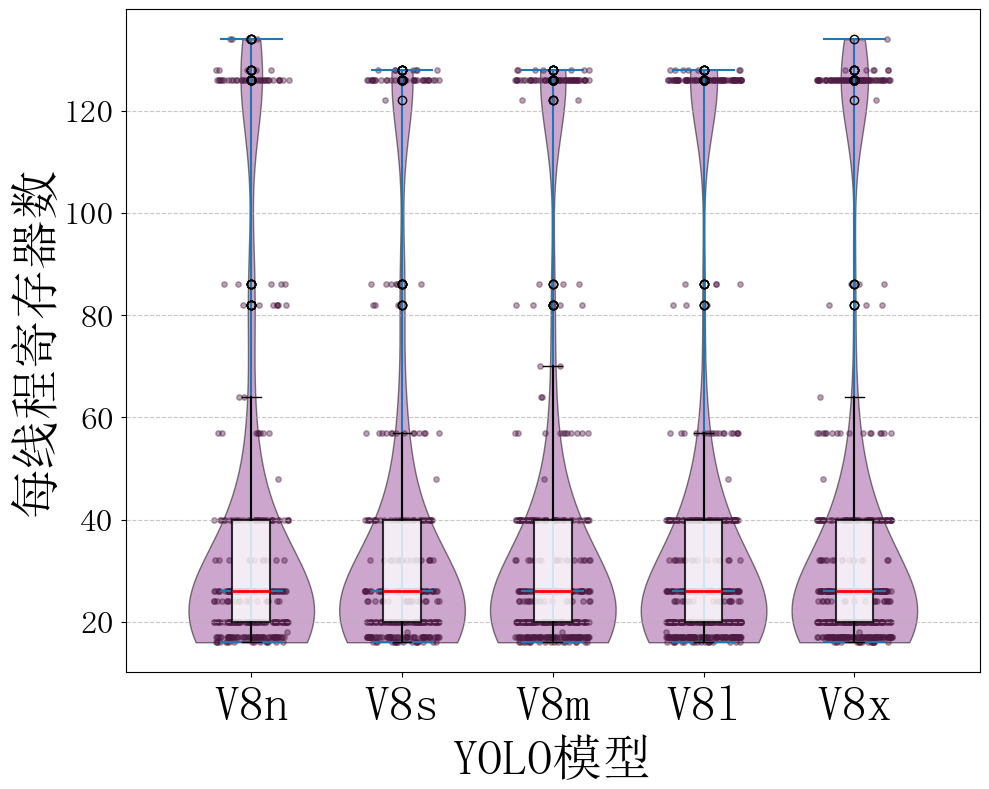
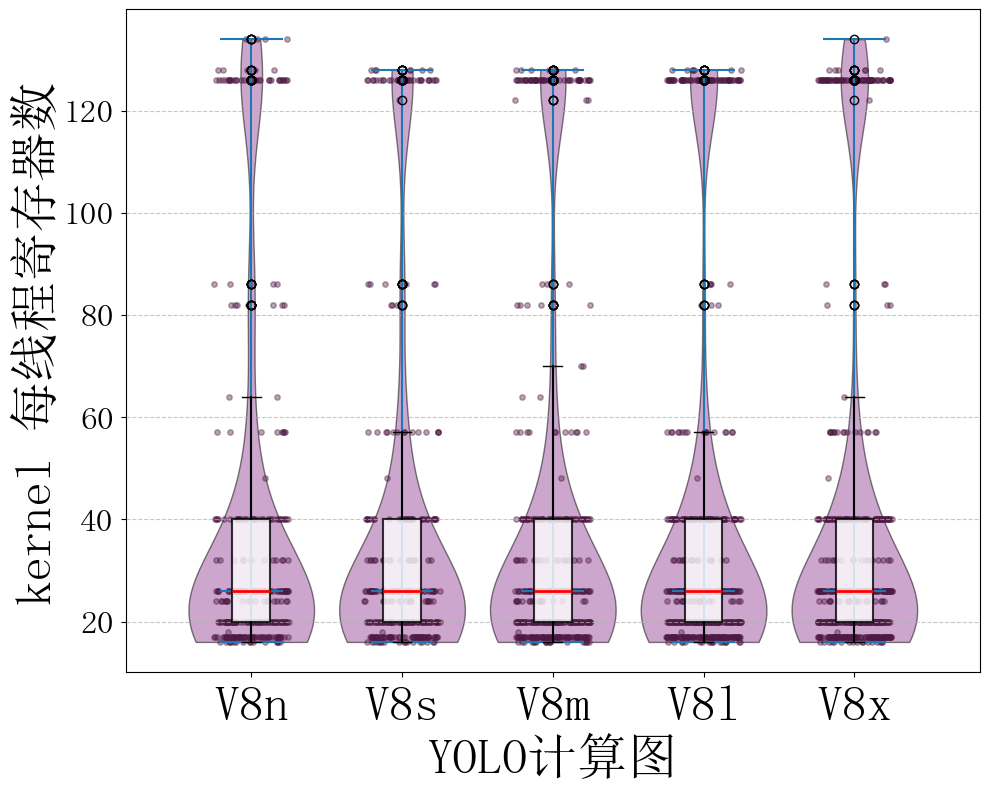
refactor: change 'model' to 'computation graph' in pictures

diff --git a/plotter/yolov8_single_data_kernels_accuracy_compare.py b/plotter/yolov8_single_data_kernels_accuracy_compare.py
@@ -28,7 +28,7 @@ data = {
 #   精确
 data = {'规则库数据来源模型': ['V8n', 'V8s', 'V8m', 'V8l', 'V8x'], 'V8n': ['239/239', '146/239', '94/239', '119/239', '54/239'], 'V8s': ['115/239', '239/239', '69/239', '146/239', '37/239'], 'V8m': ['50/305', '51/305', '305/305', '51/305', '37/305'], 'V8l': ['81/371', '247/371', '51/371', '371/371', '37/371'], 'V8x': ['104/371', '37/371', '37/371', '37/371', '371/371']}
 #   序列
-data = {'规则库数据来源模型': ['V8n', 'V8s', 'V8m', 'V8l', 'V8x'], 'V8n': ['239/239', '224/239', '216/239', '222/239', '217/239'], 'V8s': ['205/239', '239/239', '227/239', '221/239', '220/239'], 'V8m': ['250/305', '288/305', '305/305', '290/305', '283/305'], 'V8l': ['306/371', '327/371', '357/371', '371/371', '360/371'], 'V8x': ['307/371', '324/371', '342/371', '359/371', '371/371']}
+# data = {'规则库数据来源模型': ['V8n', 'V8s', 'V8m', 'V8l', 'V8x'], 'V8n': ['239/239', '224/239', '216/239', '222/239', '217/239'], 'V8s': ['205/239', '239/239', '227/239', '221/239', '220/239'], 'V8m': ['250/305', '288/305', '305/305', '290/305', '283/305'], 'V8l': ['306/371', '327/371', '357/371', '371/371', '360/371'], 'V8x': ['307/371', '324/371', '342/371', '359/371', '371/371']}
 
 # 创建 DataFrame
 df = pd.DataFrame(data)
@@ -69,9 +69,9 @@ sns.heatmap(df, annot=True, fmt=".1f", cmap=cmap, linewidths=5, annot_kws={"size
             cbar_kws={"pad": 0.03}, norm=norm)
 
 # 添加横轴标题，并设置加粗，调整横轴标题和标签的距离
-plt.xlabel('被预测目标模型', fontweight='bold', labelpad=15)
+plt.xlabel('被预测目标计算图', fontweight='bold', labelpad=15)
 # 设置纵轴标签并加粗，调整纵轴标题和标签的距离
-plt.ylabel('规则库数据来源模型', fontweight='bold', labelpad=15)
+plt.ylabel('规则库数据来源计算图', fontweight='bold', labelpad=15)
 
 # 调整横轴刻度标签与图的间距
 plt.tick_params(axis='x', pad=10)
@@ -83,6 +83,6 @@ plt.subplots_adjust(left=0.15, bottom=0.16, right=1, top=0.95)
 
 # 移除大标题
 # 保存图片，设置 dpi 提高清晰度
-plt.savefig('./plotter/output/yolov8_single_data_kernels_accuracy_seq.png', dpi=100)
+plt.savefig('./plotter/output/yolov8_single_data_kernels_accuracy_exact.png', dpi=100)
 plt.close()
     

diff --git a/plotter/yolov8n_to_x_conv_kernels_accuracy.py b/plotter/yolov8n_to_x_conv_kernels_accuracy.py
@@ -5,11 +5,11 @@ import numpy as np
 from matplotlib.colors import Normalize, FuncNorm
 
 # conv
-data = {'规则库数据来源模型': ['V8n', 'V8s', 'V8m', 'V8l', 'V8x'], 'V8n': ['64/64', '49/64', '41/64', '47/64', '42/64'], 'V8s': ['30/64', '64/64', '52/64', '46/64', '45/64'], 'V8m': ['29/84', '67/84', '84/84', '69/84', '62/84'], 'V8l': ['39/104', '60/104', '90/104', '104/104', '93/104'], 'V8x': ['40/104', '57/104', '75/104', '92/104', '104/104']}
+data = {'规则库数据来源计算图': ['V8n', 'V8s', 'V8m', 'V8l', 'V8x'], 'V8n': ['64/64', '49/64', '41/64', '47/64', '42/64'], 'V8s': ['30/64', '64/64', '52/64', '46/64', '45/64'], 'V8m': ['29/84', '67/84', '84/84', '69/84', '62/84'], 'V8l': ['39/104', '60/104', '90/104', '104/104', '93/104'], 'V8x': ['40/104', '57/104', '75/104', '92/104', '104/104']}
 
 # 创建 DataFrame
 df = pd.DataFrame(data)
-df.set_index('规则库数据来源模型', inplace=True)
+df.set_index('规则库数据来源计算图', inplace=True)
 
 # 将分数转换为百分比
 def convert_to_percentage(value):
@@ -46,9 +46,9 @@ sns.heatmap(df, annot=True, fmt=".1f", cmap=cmap, linewidths=5, annot_kws={"size
             cbar_kws={"pad": 0.03}, norm=norm)
 
 # 添加横轴标题，并设置加粗，调整横轴标题和标签的距离
-plt.xlabel('被预测目标模型', fontweight='bold', labelpad=15)
+plt.xlabel('被预测目标计算图', fontweight='bold', labelpad=15)
 # 设置纵轴标签并加粗，调整纵轴标题和标签的距离
-plt.ylabel('规则库数据来源模型', fontweight='bold', labelpad=15)
+plt.ylabel('规则库数据来源计算图', fontweight='bold', labelpad=15)
 
 # 调整横轴刻度标签与图的间距
 plt.tick_params(axis='x', pad=10)

diff --git a/plotter/yolov8_data_distribution_violinplot.py b/plotter/yolov8_data_distribution_violinplot.py
@@ -155,7 +155,7 @@ def plot_violin(data: Dict[str, List[float]],
     else:
         plt.show()
 
-def main(json_file, output_file, ylabel, xlabel="YOLO模型"):
+def main(json_file, output_file, ylabel, xlabel="YOLO计算图"):
     """
     主函数，处理用户输入并绘制小提琴图
     """
@@ -204,17 +204,17 @@ if __name__ == "__main__":
     main(
         "./results/ncu-value-extract/yolov8-grid-size.json",
         "./plotter/output/yolov8_grid_size_distribution_violinplot.png",
-        "Grid 大小",
+        "kernel Grid 大小",
     )
 
     main(
         "./results/ncu-value-extract/yolov8-block-size.json",
         "./plotter/output/yolov8_block_size_distribution_violinplot.png",
-        "Block 大小",
+        "kernel Block 大小",
     )
 
     main(
         "./results/ncu-value-extract/yolov8-registers-per-thread.json",
         "./plotter/output/yolov8_registers_per_thread_distribution_violinplot.png",
-        "每线程寄存器数",
+        "kernel 每线程寄存器数",
     )

diff --git a/plotter/yolov8_single_data_kernels_accuracy.py b/plotter/yolov8_single_data_kernels_accuracy.py
@@ -66,9 +66,9 @@ sns.heatmap(df, annot=True, fmt=".1f", cmap=cmap, linewidths=5, annot_kws={"size
             cbar_kws={"pad": 0.03}, norm=norm)
 
 # 添加横轴标题，并设置加粗，调整横轴标题和标签的距离
-plt.xlabel('被预测目标模型', fontweight='bold', labelpad=15)
+plt.xlabel('被预测目标计算图', fontweight='bold', labelpad=15)
 # 设置纵轴标签并加粗，调整纵轴标题和标签的距离
-plt.ylabel('规则库数据来源模型', fontweight='bold', labelpad=15)
+plt.ylabel('规则库数据来源计算图', fontweight='bold', labelpad=15)
 
 # 调整横轴刻度标签与图的间距
 plt.tick_params(axis='x', pad=10)

diff --git a/plotter/yolov8_single_data_kernels_launch_accuracy.py b/plotter/yolov8_single_data_kernels_launch_accuracy.py
@@ -61,9 +61,9 @@ def draw(data, output_path, start_value):
                 cbar_kws={"pad": 0.03}, norm=norm)
 
     # 添加横轴标题，并设置加粗，调整横轴标题和标签的距离
-    plt.xlabel('被预测目标模型', fontweight='bold', labelpad=15)
+    plt.xlabel('被预测目标计算图', fontweight='bold', labelpad=15)
     # 设置纵轴标签并加粗，调整纵轴标题和标签的距离
-    plt.ylabel('规则库数据来源模型', fontweight='bold', labelpad=15)
+    plt.ylabel('规则库数据来源计算图', fontweight='bold', labelpad=15)
 
     # 调整横轴刻度标签与图的间距
     plt.tick_params(axis='x', pad=10)
